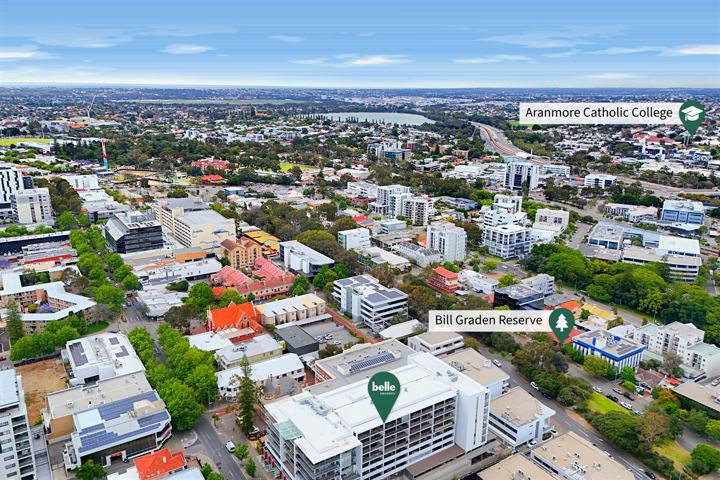
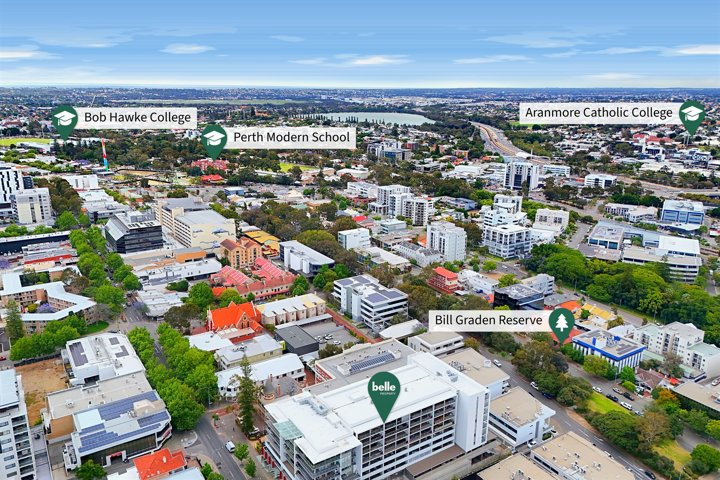
79/1178 Hay St 0132: add Bob Hawke College + Perth Modern School pins
Claude-Session: https://claude.ai/code/session_01A5qGg2LnJXxgSHoMQFvEEG

diff --git a/aerials/17-nov-2026/index.html b/aerials/17-nov-2026/index.html
@@ -5,4 +5,4 @@ body{margin:0;background:var(--bg);color:var(--fg);font:15px/1.45 system-ui,-app
 header,section{max-width:1400px;margin:auto;padding:18px 16px}h1{font-size:20px;margin:0}h2{font-size:17px;margin:0}header p,section p{color:var(--mut);margin:4px 0 0}
 .ed{margin-left:10px;color:var(--acc);font-weight:600;text-decoration:none}a{color:var(--acc)}
 .chk{margin-top:10px}.chk summary{cursor:pointer;color:var(--mut);font-weight:600}.chk iframe{width:100%;height:420px;border:0;border-radius:6px;margin-top:6px;background:#111}.g{display:grid;grid-template-columns:repeat(auto-fill,minmax(280px,1fr));gap:8px;margin-top:10px}.g img{width:100%;display:block;border-radius:4px}</style></head>
-<body><header><h1>Drone edits — Tue 17 Nov 2026</h1><p>Tap a photo for full size. <b>Edit</b> opens the job in the <a href="/pins/">editor</a> with all its pins and settings.</p></header><section><h2>SEND TO EDITOR — no lot boundary (Mac offline, no cadastre/satellite); hazy hills/horizon after sky swap on 0218/0220/0227/0229 (tower ghosting removed); both top-downs over-saturated and the house is off-centre — please re-edit sky/colour · 34 Croyden Rd, Roleystone WA 6111</h2><p>Jayden Cooke · Rodway · 13 photos (top-downs first) <a class="ed" href="/pins/?open=17-nov-2026/34_croyden_rd">Edit</a><a class="ed" href="/lots/?img=/aerials/17-nov-2026/34_croyden_rd/src/DJI_20261117135524_0236_D.jpg&street=Croyden%20Road" target="_blank">Lots</a><a class="ed" href="34_croyden_rd/check.html" target="_blank">Check map</a></p><div class="g"><a href="34_croyden_rd/DJI_20261117135524_0236_D.jpg?v=1794930465" target="_blank"><img loading="lazy" src="34_croyden_rd/t/DJI_20261117135524_0236_D.jpg?v=1794930465" alt=""></a><a href="34_croyden_rd/DJI_20261117135538_0237_D_r180_sq.jpg?v=1794930465" target="_blank"><img loading="lazy" src="34_croyden_rd/t/DJI_20261117135538_0237_D_r180_sq.jpg?v=1794930465" alt=""></a><a href="34_croyden_rd/DJI_20261117134904_0218_D.jpg?v=1794930465" target="_blank"><img loading="lazy" src="34_croyden_rd/t/DJI_20261117134904_0218_D.jpg?v=1794930465" alt=""></a><a href="34_croyden_rd/DJI_20261117135013_0220_D.jpg?v=1794930465" target="_blank"><img loading="lazy" src="34_croyden_rd/t/DJI_20261117135013_0220_D.jpg?v=1794930465" alt=""></a><a href="34_croyden_rd/DJI_20261117135036_0221_D.jpg?v=1794930465" target="_blank"><img loading="lazy" src="34_croyden_rd/t/DJI_20261117135036_0221_D.jpg?v=1794930465" alt=""></a><a href="34_croyden_rd/DJI_20261117135113_0223_D.jpg?v=1794930465" target="_blank"><img loading="lazy" src="34_croyden_rd/t/DJI_20261117135113_0223_D.jpg?v=1794930465" alt=""></a><a href="34_croyden_rd/DJI_20261117135138_0224_D.jpg?v=1794930465" target="_blank"><img loading="lazy" src="34_croyden_rd/t/DJI_20261117135138_0224_D.jpg?v=1794930465" alt=""></a><a href="34_croyden_rd/DJI_20261117135159_0225_D.jpg?v=1794930465" target="_blank"><img loading="lazy" src="34_croyden_rd/t/DJI_20261117135159_0225_D.jpg?v=1794930465" alt=""></a><a href="34_croyden_rd/DJI_20261117135227_0227_D.jpg?v=1794930465" target="_blank"><img loading="lazy" src="34_croyden_rd/t/DJI_20261117135227_0227_D.jpg?v=1794930465" alt=""></a><a href="34_croyden_rd/DJI_20261117135326_0229_D.jpg?v=1794930465" target="_blank"><img loading="lazy" src="34_croyden_rd/t/DJI_20261117135326_0229_D.jpg?v=1794930465" alt=""></a><a href="34_croyden_rd/DJI_20261117143956_0239_D.jpg?v=1794930465" target="_blank"><img loading="lazy" src="34_croyden_rd/t/DJI_20261117143956_0239_D.jpg?v=1794930465" alt=""></a><a href="34_croyden_rd/DJI_20261117144039_0240_D.jpg?v=1794930465" target="_blank"><img loading="lazy" src="34_croyden_rd/t/DJI_20261117144039_0240_D.jpg?v=1794930465" alt=""></a><a href="34_croyden_rd/DJI_20261117144046_0241_D.jpg?v=1794930465" target="_blank"><img loading="lazy" src="34_croyden_rd/t/DJI_20261117144046_0241_D.jpg?v=1794930465" alt=""></a></div><details class="chk" open><summary>Quick check — boundary + 9 pinned places</summary><iframe loading="lazy" src="34_croyden_rd/check.html?v=1794930467" title="Boundary and places check"></iframe></details></section><section><h2>SEND TO EDITOR — pale hard-edged band of old sky above the horizon on 0258/0259/0260 after the sky swap; no lot boundary (grouped dwelling, Mac offline) — please re-do the sky on those frames · 374 Light St, Dianella WA 6059</h2><p>Lucy Deng · Ausvision Realty · 11 photos (top-downs first) <a class="ed" href="/pins/?open=17-nov-2026/374_light_st">Edit</a><a class="ed" href="/lots/?img=/aerials/17-nov-2026/374_light_st/src/DJI_20261117160634_0269_D_r180.jpg&street=Light%20Street" target="_blank">Lots</a><a class="ed" href="374_light_st/check.html" target="_blank">Check map</a></p><div class="g"><a href="374_light_st/DJI_20261117160634_0269_D_r180.jpg?v=1794930470" target="_blank"><img loading="lazy" src="374_light_st/t/DJI_20261117160634_0269_D_r180.jpg?v=1794930470" alt=""></a><a href="374_light_st/DJI_20261117160607_0267_D_sq.jpg?v=1794930470" target="_blank"><img loading="lazy" src="374_light_st/t/DJI_20261117160607_0267_D_sq.jpg?v=1794930470" alt=""></a><a href="374_light_st/DJI_20261117160019_0257_D.jpg?v=1794930470" target="_blank"><img loading="lazy" src="374_light_st/t/DJI_20261117160019_0257_D.jpg?v=1794930470" alt=""></a><a href="374_light_st/DJI_20261117160038_0258_D.jpg?v=1794930470" target="_blank"><img loading="lazy" src="374_light_st/t/DJI_20261117160038_0258_D.jpg?v=1794930470" alt=""></a><a href="374_light_st/DJI_20261117160056_0259_D.jpg?v=1794930470" target="_blank"><img loading="lazy" src="374_light_st/t/DJI_20261117160056_0259_D.jpg?v=1794930470" alt=""></a><a href="374_light_st/DJI_20261117160119_0260_D.jpg?v=1794930470" target="_blank"><img loading="lazy" src="374_light_st/t/DJI_20261117160119_0260_D.jpg?v=1794930470" alt=""></a><a href="374_light_st/DJI_20261117160147_0261_D.jpg?v=1794930470" target="_blank"><img loading="lazy" src="374_light_st/t/DJI_20261117160147_0261_D.jpg?v=1794930470" alt=""></a><a href="374_light_st/DJI_20261117160253_0263_D.jpg?v=1794930470" target="_blank"><img loading="lazy" src="374_light_st/t/DJI_20261117160253_0263_D.jpg?v=1794930470" alt=""></a><a href="374_light_st/DJI_20261117160402_0264_D.jpg?v=1794930470" target="_blank"><img loading="lazy" src="374_light_st/t/DJI_20261117160402_0264_D.jpg?v=1794930470" alt=""></a><a href="374_light_st/DJI_20261117160425_0265_D.jpg?v=1794930470" target="_blank"><img loading="lazy" src="374_light_st/t/DJI_20261117160425_0265_D.jpg?v=1794930470" alt=""></a><a href="374_light_st/DJI_20261117160443_0266_D.jpg?v=1794930470" target="_blank"><img loading="lazy" src="374_light_st/t/DJI_20261117160443_0266_D.jpg?v=1794930470" alt=""></a></div><details class="chk" open><summary>Quick check — boundary + 17 pinned places</summary><iframe loading="lazy" src="374_light_st/check.html?v=1794930472" title="Boundary and places check"></iframe></details></section><section><h2>SEND TO EDITOR — white halo/glow strip along the ridge line on 0114/0115 (faint haze 0108/0111/0112) after the sky swap; house is out of shot on 0110 and 0114 (shooter framing) — please re-do the sky and check those frames · 43 William St, Armadale WA 6112</h2><p>Jayden Cooke · Rodway · 10 photos (top-downs first) <a class="ed" href="/pins/?open=17-nov-2026/43_william_st">Edit</a><a class="ed" href="/lots/?img=/aerials/17-nov-2026/43_william_st/src/dji_fly_20261117_102652_0102_1794923605590_photo_sq.JPG&street=William%20Street" target="_blank">Lots</a><a class="ed" href="43_william_st/check.html" target="_blank">Check map</a></p><div class="g"><a href="43_william_st/dji_fly_20261117_102652_0102_1794923605590_photo_sq.jpg?v=1795010000" target="_blank"><img loading="lazy" src="43_william_st/t/dji_fly_20261117_102652_0102_1794923605590_photo_sq.jpg?v=1795010000" alt=""></a><a href="43_william_st/dji_fly_20261117_102734_0107_1794923598787_photo_sq.jpg?v=1795100000" target="_blank"><img loading="lazy" src="43_william_st/t/dji_fly_20261117_102734_0107_1794923598787_photo_sq.jpg?v=1795100000" alt=""></a><a href="43_william_st/dji_fly_20261117_102804_0108_1794923597373_photo.jpg?v=1795010000" target="_blank"><img loading="lazy" src="43_william_st/t/dji_fly_20261117_102804_0108_1794923597373_photo.jpg?v=1795010000" alt=""></a><a href="43_william_st/dji_fly_20261117_102836_0109_1794923595154_photo.jpg?v=1795010000" target="_blank"><img loading="lazy" src="43_william_st/t/dji_fly_20261117_102836_0109_1794923595154_photo.jpg?v=1795010000" alt=""></a><a href="43_william_st/dji_fly_20261117_102942_0110_1794923593774_photo.jpg?v=1795010000" target="_blank"><img loading="lazy" src="43_william_st/t/dji_fly_20261117_102942_0110_1794923593774_photo.jpg?v=1795010000" alt=""></a><a href="43_william_st/dji_fly_20261117_103016_0111_1794923592394_photo.jpg?v=1795010000" target="_blank"><img loading="lazy" src="43_william_st/t/dji_fly_20261117_103016_0111_1794923592394_photo.jpg?v=1795010000" alt=""></a><a href="43_william_st/dji_fly_20261117_103050_0112_1794923591070_photo.jpg?v=1795010000" target="_blank"><img loading="lazy" src="43_william_st/t/dji_fly_20261117_103050_0112_1794923591070_photo.jpg?v=1795010000" alt=""></a><a href="43_william_st/dji_fly_20261117_103102_0113_1794923589788_photo.jpg?v=1795010000" target="_blank"><img loading="lazy" src="43_william_st/t/dji_fly_20261117_103102_0113_1794923589788_photo.jpg?v=1795010000" alt=""></a><a href="43_william_st/dji_fly_20261117_103116_0114_1794923588534_photo.jpg?v=1795010000" target="_blank"><img loading="lazy" src="43_william_st/t/dji_fly_20261117_103116_0114_1794923588534_photo.jpg?v=1795010000" alt=""></a><a href="43_william_st/dji_fly_20261117_103130_0115_1794923587236_photo.jpg?v=1795010000" target="_blank"><img loading="lazy" src="43_william_st/t/dji_fly_20261117_103130_0115_1794923587236_photo.jpg?v=1795010000" alt=""></a></div><details class="chk" open><summary>Quick check — boundary + 12 pinned places</summary><iframe loading="lazy" src="43_william_st/check.html?v=1794950668" title="Boundary and places check"></iframe></details></section><section><h2>SEND TO EDITOR — sky swap left ghost blocks of old sky above the horizon on 0125/0126/0127 and halos/ghosting around the CBD towers on 0118/0119/0128, grey haze over the hills on 0123/0124 — please replace the sky on every oblique · 28/76 Newcastle St, West Perth WA 6005</h2><p>Shane Garrett · Belle Property · 13 photos (top-downs first) <a class="ed" href="/pins/?open=17-nov-2026/28_76_newcastle_st">Edit</a><a class="ed" href="/lots/?img=/aerials/17-nov-2026/28_76_newcastle_st/src/dji_fly_20261117_123400_0117_1794923584798_photo_r180_sq.JPG&street=Newcastle%20Street" target="_blank">Lots</a><a class="ed" href="28_76_newcastle_st/check.html" target="_blank">Check map</a></p><div class="g"><a href="28_76_newcastle_st/dji_fly_20261117_123400_0117_1794923584798_photo_r180_sq.jpg?v=1794950677" target="_blank"><img loading="lazy" src="28_76_newcastle_st/t/dji_fly_20261117_123400_0117_1794923584798_photo_r180_sq.jpg?v=1794950677" alt=""></a><a href="28_76_newcastle_st/dji_fly_20261117_123356_0116_1794923585995_photo.jpg?v=1794950678" target="_blank"><img loading="lazy" src="28_76_newcastle_st/t/dji_fly_20261117_123356_0116_1794923585995_photo.jpg?v=1794950678" alt=""></a><a href="28_76_newcastle_st/dji_fly_20261117_123438_0118_1794923583683_photo.jpg?v=1794950678" target="_blank"><img loading="lazy" src="28_76_newcastle_st/t/dji_fly_20261117_123438_0118_1794923583683_photo.jpg?v=1794950678" alt=""></a><a href="28_76_newcastle_st/dji_fly_20261117_123500_0119_1794923582541_photo.jpg?v=1794950678" target="_blank"><img loading="lazy" src="28_76_newcastle_st/t/dji_fly_20261117_123500_0119_1794923582541_photo.jpg?v=1794950678" alt=""></a><a href="28_76_newcastle_st/dji_fly_20261117_123532_0120_1794923581349_photo.jpg?v=1794950678" target="_blank"><img loading="lazy" src="28_76_newcastle_st/t/dji_fly_20261117_123532_0120_1794923581349_photo.jpg?v=1794950678" alt=""></a><a href="28_76_newcastle_st/dji_fly_20261117_123548_0121_1794923580121_photo.jpg?v=1794950678" target="_blank"><img loading="lazy" src="28_76_newcastle_st/t/dji_fly_20261117_123548_0121_1794923580121_photo.jpg?v=1794950678" alt=""></a><a href="28_76_newcastle_st/dji_fly_20261117_123610_0122_1794923578874_photo.jpg?v=1794950678" target="_blank"><img loading="lazy" src="28_76_newcastle_st/t/dji_fly_20261117_123610_0122_1794923578874_photo.jpg?v=1794950678" alt=""></a><a href="28_76_newcastle_st/dji_fly_20261117_123630_0123_1794923577572_photo.jpg?v=1794950678" target="_blank"><img loading="lazy" src="28_76_newcastle_st/t/dji_fly_20261117_123630_0123_1794923577572_photo.jpg?v=1794950678" alt=""></a><a href="28_76_newcastle_st/dji_fly_20261117_123646_0124_1794923576272_photo.jpg?v=1794950678" target="_blank"><img loading="lazy" src="28_76_newcastle_st/t/dji_fly_20261117_123646_0124_1794923576272_photo.jpg?v=1794950678" alt=""></a><a href="28_76_newcastle_st/dji_fly_20261117_123702_0125_1794923575020_photo.jpg?v=1794950678" target="_blank"><img loading="lazy" src="28_76_newcastle_st/t/dji_fly_20261117_123702_0125_1794923575020_photo.jpg?v=1794950678" alt=""></a><a href="28_76_newcastle_st/dji_fly_20261117_123724_0126_1794923573753_photo.jpg?v=1794950678" target="_blank"><img loading="lazy" src="28_76_newcastle_st/t/dji_fly_20261117_123724_0126_1794923573753_photo.jpg?v=1794950678" alt=""></a><a href="28_76_newcastle_st/dji_fly_20261117_123754_0127_1794923572402_photo.jpg?v=1794950678" target="_blank"><img loading="lazy" src="28_76_newcastle_st/t/dji_fly_20261117_123754_0127_1794923572402_photo.jpg?v=1794950678" alt=""></a><a href="28_76_newcastle_st/dji_fly_20261117_123806_0128_1794923571185_photo.jpg?v=1794950678" target="_blank"><img loading="lazy" src="28_76_newcastle_st/t/dji_fly_20261117_123806_0128_1794923571185_photo.jpg?v=1794950678" alt=""></a></div><details class="chk" open><summary>Quick check — boundary + 8 pinned places</summary><iframe loading="lazy" src="28_76_newcastle_st/check.html?v=1794950681" title="Boundary and places check"></iframe></details></section><section><h2>SEND TO EDITOR — CBD tower tops ghosted after the sky swap on 0135/0136, faint halo 0131 and haze 0133/0134 — please re-do the sky on the obliques · 79/1178 Hay St, West Perth WA 6005</h2><p>Megan Topham · Belle Property · 12 photos (top-downs first) <a class="ed" href="/pins/?open=17-nov-2026/79_1178_hay_st">Edit</a><a class="ed" href="/lots/?img=/aerials/17-nov-2026/79_1178_hay_st/src/dji_fly_20261117_160212_0129_1794923569992_photo_r270.JPG&street=Hay%20Street" target="_blank">Lots</a><a class="ed" href="79_1178_hay_st/check.html" target="_blank">Check map</a></p><div class="g"><a href="79_1178_hay_st/dji_fly_20261117_160212_0129_1794923569992_photo_r270.jpg?v=1794950688" target="_blank"><img loading="lazy" src="79_1178_hay_st/t/dji_fly_20261117_160212_0129_1794923569992_photo_r270.jpg?v=1794950688" alt=""></a><a href="79_1178_hay_st/dji_fly_20261117_160212_0129_1794923569992_photo.jpg?v=1794950688" target="_blank"><img loading="lazy" src="79_1178_hay_st/t/dji_fly_20261117_160212_0129_1794923569992_photo.jpg?v=1794950688" alt=""></a><a href="79_1178_hay_st/dji_fly_20261117_160252_0130_1794923568799_photo.jpg?v=1794950688" target="_blank"><img loading="lazy" src="79_1178_hay_st/t/dji_fly_20261117_160252_0130_1794923568799_photo.jpg?v=1794950688" alt=""></a><a href="79_1178_hay_st/dji_fly_20261117_160320_0131_1794923567548_photo.jpg?v=1794950688" target="_blank"><img loading="lazy" src="79_1178_hay_st/t/dji_fly_20261117_160320_0131_1794923567548_photo.jpg?v=1794950688" alt=""></a><a href="79_1178_hay_st/dji_fly_20261117_160336_0132_1794923565379_photo.jpg?v=1794950688" target="_blank"><img loading="lazy" src="79_1178_hay_st/t/dji_fly_20261117_160336_0132_1794923565379_photo.jpg?v=1794950688" alt=""></a><a href="79_1178_hay_st/dji_fly_20261117_160354_0133_1794923564099_photo.jpg?v=1794950688" target="_blank"><img loading="lazy" src="79_1178_hay_st/t/dji_fly_20261117_160354_0133_1794923564099_photo.jpg?v=1794950688" alt=""></a><a href="79_1178_hay_st/dji_fly_20261117_160406_0134_1794923562823_photo.jpg?v=1794950688" target="_blank"><img loading="lazy" src="79_1178_hay_st/t/dji_fly_20261117_160406_0134_1794923562823_photo.jpg?v=1794950688" alt=""></a><a href="79_1178_hay_st/dji_fly_20261117_160428_0135_1794923561548_photo.jpg?v=1794950688" target="_blank"><img loading="lazy" src="79_1178_hay_st/t/dji_fly_20261117_160428_0135_1794923561548_photo.jpg?v=1794950688" alt=""></a><a href="79_1178_hay_st/dji_fly_20261117_160446_0136_1794923560286_photo.jpg?v=1794950688" target="_blank"><img loading="lazy" src="79_1178_hay_st/t/dji_fly_20261117_160446_0136_1794923560286_photo.jpg?v=1794950688" alt=""></a><a href="79_1178_hay_st/dji_fly_20261117_160512_0137_1794923559042_photo.jpg?v=1794950688" target="_blank"><img loading="lazy" src="79_1178_hay_st/t/dji_fly_20261117_160512_0137_1794923559042_photo.jpg?v=1794950688" alt=""></a><a href="79_1178_hay_st/dji_fly_20261117_160530_0138_1794923557769_photo.jpg?v=1794950688" target="_blank"><img loading="lazy" src="79_1178_hay_st/t/dji_fly_20261117_160530_0138_1794923557769_photo.jpg?v=1794950688" alt=""></a><a href="79_1178_hay_st/dji_fly_20261117_160548_0139_1794923556478_photo.jpg?v=1794950688" target="_blank"><img loading="lazy" src="79_1178_hay_st/t/dji_fly_20261117_160548_0139_1794923556478_photo.jpg?v=1794950688" alt=""></a></div><details class="chk" open><summary>Quick check — boundary + 10 pinned places</summary><iframe loading="lazy" src="79_1178_hay_st/check.html?v=1794950691" title="Boundary and places check"></iframe></details></section><script src="../dl.js"></script></body></html>
+<body><header><h1>Drone edits — Tue 17 Nov 2026</h1><p>Tap a photo for full size. <b>Edit</b> opens the job in the <a href="/pins/">editor</a> with all its pins and settings.</p></header><section><h2>SEND TO EDITOR — no lot boundary (Mac offline, no cadastre/satellite); hazy hills/horizon after sky swap on 0218/0220/0227/0229 (tower ghosting removed); both top-downs over-saturated and the house is off-centre — please re-edit sky/colour · 34 Croyden Rd, Roleystone WA 6111</h2><p>Jayden Cooke · Rodway · 13 photos (top-downs first) <a class="ed" href="/pins/?open=17-nov-2026/34_croyden_rd">Edit</a><a class="ed" href="/lots/?img=/aerials/17-nov-2026/34_croyden_rd/src/DJI_20261117135524_0236_D.jpg&street=Croyden%20Road" target="_blank">Lots</a><a class="ed" href="34_croyden_rd/check.html" target="_blank">Check map</a></p><div class="g"><a href="34_croyden_rd/DJI_20261117135524_0236_D.jpg?v=1794930465" target="_blank"><img loading="lazy" src="34_croyden_rd/t/DJI_20261117135524_0236_D.jpg?v=1794930465" alt=""></a><a href="34_croyden_rd/DJI_20261117135538_0237_D_r180_sq.jpg?v=1794930465" target="_blank"><img loading="lazy" src="34_croyden_rd/t/DJI_20261117135538_0237_D_r180_sq.jpg?v=1794930465" alt=""></a><a href="34_croyden_rd/DJI_20261117134904_0218_D.jpg?v=1794930465" target="_blank"><img loading="lazy" src="34_croyden_rd/t/DJI_20261117134904_0218_D.jpg?v=1794930465" alt=""></a><a href="34_croyden_rd/DJI_20261117135013_0220_D.jpg?v=1794930465" target="_blank"><img loading="lazy" src="34_croyden_rd/t/DJI_20261117135013_0220_D.jpg?v=1794930465" alt=""></a><a href="34_croyden_rd/DJI_20261117135036_0221_D.jpg?v=1794930465" target="_blank"><img loading="lazy" src="34_croyden_rd/t/DJI_20261117135036_0221_D.jpg?v=1794930465" alt=""></a><a href="34_croyden_rd/DJI_20261117135113_0223_D.jpg?v=1794930465" target="_blank"><img loading="lazy" src="34_croyden_rd/t/DJI_20261117135113_0223_D.jpg?v=1794930465" alt=""></a><a href="34_croyden_rd/DJI_20261117135138_0224_D.jpg?v=1794930465" target="_blank"><img loading="lazy" src="34_croyden_rd/t/DJI_20261117135138_0224_D.jpg?v=1794930465" alt=""></a><a href="34_croyden_rd/DJI_20261117135159_0225_D.jpg?v=1794930465" target="_blank"><img loading="lazy" src="34_croyden_rd/t/DJI_20261117135159_0225_D.jpg?v=1794930465" alt=""></a><a href="34_croyden_rd/DJI_20261117135227_0227_D.jpg?v=1794930465" target="_blank"><img loading="lazy" src="34_croyden_rd/t/DJI_20261117135227_0227_D.jpg?v=1794930465" alt=""></a><a href="34_croyden_rd/DJI_20261117135326_0229_D.jpg?v=1794930465" target="_blank"><img loading="lazy" src="34_croyden_rd/t/DJI_20261117135326_0229_D.jpg?v=1794930465" alt=""></a><a href="34_croyden_rd/DJI_20261117143956_0239_D.jpg?v=1794930465" target="_blank"><img loading="lazy" src="34_croyden_rd/t/DJI_20261117143956_0239_D.jpg?v=1794930465" alt=""></a><a href="34_croyden_rd/DJI_20261117144039_0240_D.jpg?v=1794930465" target="_blank"><img loading="lazy" src="34_croyden_rd/t/DJI_20261117144039_0240_D.jpg?v=1794930465" alt=""></a><a href="34_croyden_rd/DJI_20261117144046_0241_D.jpg?v=1794930465" target="_blank"><img loading="lazy" src="34_croyden_rd/t/DJI_20261117144046_0241_D.jpg?v=1794930465" alt=""></a></div><details class="chk" open><summary>Quick check — boundary + 9 pinned places</summary><iframe loading="lazy" src="34_croyden_rd/check.html?v=1794930467" title="Boundary and places check"></iframe></details></section><section><h2>SEND TO EDITOR — pale hard-edged band of old sky above the horizon on 0258/0259/0260 after the sky swap; no lot boundary (grouped dwelling, Mac offline) — please re-do the sky on those frames · 374 Light St, Dianella WA 6059</h2><p>Lucy Deng · Ausvision Realty · 11 photos (top-downs first) <a class="ed" href="/pins/?open=17-nov-2026/374_light_st">Edit</a><a class="ed" href="/lots/?img=/aerials/17-nov-2026/374_light_st/src/DJI_20261117160634_0269_D_r180.jpg&street=Light%20Street" target="_blank">Lots</a><a class="ed" href="374_light_st/check.html" target="_blank">Check map</a></p><div class="g"><a href="374_light_st/DJI_20261117160634_0269_D_r180.jpg?v=1794930470" target="_blank"><img loading="lazy" src="374_light_st/t/DJI_20261117160634_0269_D_r180.jpg?v=1794930470" alt=""></a><a href="374_light_st/DJI_20261117160607_0267_D_sq.jpg?v=1794930470" target="_blank"><img loading="lazy" src="374_light_st/t/DJI_20261117160607_0267_D_sq.jpg?v=1794930470" alt=""></a><a href="374_light_st/DJI_20261117160019_0257_D.jpg?v=1794930470" target="_blank"><img loading="lazy" src="374_light_st/t/DJI_20261117160019_0257_D.jpg?v=1794930470" alt=""></a><a href="374_light_st/DJI_20261117160038_0258_D.jpg?v=1794930470" target="_blank"><img loading="lazy" src="374_light_st/t/DJI_20261117160038_0258_D.jpg?v=1794930470" alt=""></a><a href="374_light_st/DJI_20261117160056_0259_D.jpg?v=1794930470" target="_blank"><img loading="lazy" src="374_light_st/t/DJI_20261117160056_0259_D.jpg?v=1794930470" alt=""></a><a href="374_light_st/DJI_20261117160119_0260_D.jpg?v=1794930470" target="_blank"><img loading="lazy" src="374_light_st/t/DJI_20261117160119_0260_D.jpg?v=1794930470" alt=""></a><a href="374_light_st/DJI_20261117160147_0261_D.jpg?v=1794930470" target="_blank"><img loading="lazy" src="374_light_st/t/DJI_20261117160147_0261_D.jpg?v=1794930470" alt=""></a><a href="374_light_st/DJI_20261117160253_0263_D.jpg?v=1794930470" target="_blank"><img loading="lazy" src="374_light_st/t/DJI_20261117160253_0263_D.jpg?v=1794930470" alt=""></a><a href="374_light_st/DJI_20261117160402_0264_D.jpg?v=1794930470" target="_blank"><img loading="lazy" src="374_light_st/t/DJI_20261117160402_0264_D.jpg?v=1794930470" alt=""></a><a href="374_light_st/DJI_20261117160425_0265_D.jpg?v=1794930470" target="_blank"><img loading="lazy" src="374_light_st/t/DJI_20261117160425_0265_D.jpg?v=1794930470" alt=""></a><a href="374_light_st/DJI_20261117160443_0266_D.jpg?v=1794930470" target="_blank"><img loading="lazy" src="374_light_st/t/DJI_20261117160443_0266_D.jpg?v=1794930470" alt=""></a></div><details class="chk" open><summary>Quick check — boundary + 17 pinned places</summary><iframe loading="lazy" src="374_light_st/check.html?v=1794930472" title="Boundary and places check"></iframe></details></section><section><h2>SEND TO EDITOR — white halo/glow strip along the ridge line on 0114/0115 (faint haze 0108/0111/0112) after the sky swap; house is out of shot on 0110 and 0114 (shooter framing) — please re-do the sky and check those frames · 43 William St, Armadale WA 6112</h2><p>Jayden Cooke · Rodway · 10 photos (top-downs first) <a class="ed" href="/pins/?open=17-nov-2026/43_william_st">Edit</a><a class="ed" href="/lots/?img=/aerials/17-nov-2026/43_william_st/src/dji_fly_20261117_102652_0102_1794923605590_photo_sq.JPG&street=William%20Street" target="_blank">Lots</a><a class="ed" href="43_william_st/check.html" target="_blank">Check map</a></p><div class="g"><a href="43_william_st/dji_fly_20261117_102652_0102_1794923605590_photo_sq.jpg?v=1795010000" target="_blank"><img loading="lazy" src="43_william_st/t/dji_fly_20261117_102652_0102_1794923605590_photo_sq.jpg?v=1795010000" alt=""></a><a href="43_william_st/dji_fly_20261117_102734_0107_1794923598787_photo_sq.jpg?v=1795100000" target="_blank"><img loading="lazy" src="43_william_st/t/dji_fly_20261117_102734_0107_1794923598787_photo_sq.jpg?v=1795100000" alt=""></a><a href="43_william_st/dji_fly_20261117_102804_0108_1794923597373_photo.jpg?v=1795010000" target="_blank"><img loading="lazy" src="43_william_st/t/dji_fly_20261117_102804_0108_1794923597373_photo.jpg?v=1795010000" alt=""></a><a href="43_william_st/dji_fly_20261117_102836_0109_1794923595154_photo.jpg?v=1795010000" target="_blank"><img loading="lazy" src="43_william_st/t/dji_fly_20261117_102836_0109_1794923595154_photo.jpg?v=1795010000" alt=""></a><a href="43_william_st/dji_fly_20261117_102942_0110_1794923593774_photo.jpg?v=1795010000" target="_blank"><img loading="lazy" src="43_william_st/t/dji_fly_20261117_102942_0110_1794923593774_photo.jpg?v=1795010000" alt=""></a><a href="43_william_st/dji_fly_20261117_103016_0111_1794923592394_photo.jpg?v=1795010000" target="_blank"><img loading="lazy" src="43_william_st/t/dji_fly_20261117_103016_0111_1794923592394_photo.jpg?v=1795010000" alt=""></a><a href="43_william_st/dji_fly_20261117_103050_0112_1794923591070_photo.jpg?v=1795010000" target="_blank"><img loading="lazy" src="43_william_st/t/dji_fly_20261117_103050_0112_1794923591070_photo.jpg?v=1795010000" alt=""></a><a href="43_william_st/dji_fly_20261117_103102_0113_1794923589788_photo.jpg?v=1795010000" target="_blank"><img loading="lazy" src="43_william_st/t/dji_fly_20261117_103102_0113_1794923589788_photo.jpg?v=1795010000" alt=""></a><a href="43_william_st/dji_fly_20261117_103116_0114_1794923588534_photo.jpg?v=1795010000" target="_blank"><img loading="lazy" src="43_william_st/t/dji_fly_20261117_103116_0114_1794923588534_photo.jpg?v=1795010000" alt=""></a><a href="43_william_st/dji_fly_20261117_103130_0115_1794923587236_photo.jpg?v=1795010000" target="_blank"><img loading="lazy" src="43_william_st/t/dji_fly_20261117_103130_0115_1794923587236_photo.jpg?v=1795010000" alt=""></a></div><details class="chk" open><summary>Quick check — boundary + 12 pinned places</summary><iframe loading="lazy" src="43_william_st/check.html?v=1794950668" title="Boundary and places check"></iframe></details></section><section><h2>SEND TO EDITOR — sky swap left ghost blocks of old sky above the horizon on 0125/0126/0127 and halos/ghosting around the CBD towers on 0118/0119/0128, grey haze over the hills on 0123/0124 — please replace the sky on every oblique · 28/76 Newcastle St, West Perth WA 6005</h2><p>Shane Garrett · Belle Property · 13 photos (top-downs first) <a class="ed" href="/pins/?open=17-nov-2026/28_76_newcastle_st">Edit</a><a class="ed" href="/lots/?img=/aerials/17-nov-2026/28_76_newcastle_st/src/dji_fly_20261117_123400_0117_1794923584798_photo_r180_sq.JPG&street=Newcastle%20Street" target="_blank">Lots</a><a class="ed" href="28_76_newcastle_st/check.html" target="_blank">Check map</a></p><div class="g"><a href="28_76_newcastle_st/dji_fly_20261117_123400_0117_1794923584798_photo_r180_sq.jpg?v=1794950677" target="_blank"><img loading="lazy" src="28_76_newcastle_st/t/dji_fly_20261117_123400_0117_1794923584798_photo_r180_sq.jpg?v=1794950677" alt=""></a><a href="28_76_newcastle_st/dji_fly_20261117_123356_0116_1794923585995_photo.jpg?v=1794950678" target="_blank"><img loading="lazy" src="28_76_newcastle_st/t/dji_fly_20261117_123356_0116_1794923585995_photo.jpg?v=1794950678" alt=""></a><a href="28_76_newcastle_st/dji_fly_20261117_123438_0118_1794923583683_photo.jpg?v=1794950678" target="_blank"><img loading="lazy" src="28_76_newcastle_st/t/dji_fly_20261117_123438_0118_1794923583683_photo.jpg?v=1794950678" alt=""></a><a href="28_76_newcastle_st/dji_fly_20261117_123500_0119_1794923582541_photo.jpg?v=1794950678" target="_blank"><img loading="lazy" src="28_76_newcastle_st/t/dji_fly_20261117_123500_0119_1794923582541_photo.jpg?v=1794950678" alt=""></a><a href="28_76_newcastle_st/dji_fly_20261117_123532_0120_1794923581349_photo.jpg?v=1794950678" target="_blank"><img loading="lazy" src="28_76_newcastle_st/t/dji_fly_20261117_123532_0120_1794923581349_photo.jpg?v=1794950678" alt=""></a><a href="28_76_newcastle_st/dji_fly_20261117_123548_0121_1794923580121_photo.jpg?v=1794950678" target="_blank"><img loading="lazy" src="28_76_newcastle_st/t/dji_fly_20261117_123548_0121_1794923580121_photo.jpg?v=1794950678" alt=""></a><a href="28_76_newcastle_st/dji_fly_20261117_123610_0122_1794923578874_photo.jpg?v=1794950678" target="_blank"><img loading="lazy" src="28_76_newcastle_st/t/dji_fly_20261117_123610_0122_1794923578874_photo.jpg?v=1794950678" alt=""></a><a href="28_76_newcastle_st/dji_fly_20261117_123630_0123_1794923577572_photo.jpg?v=1794950678" target="_blank"><img loading="lazy" src="28_76_newcastle_st/t/dji_fly_20261117_123630_0123_1794923577572_photo.jpg?v=1794950678" alt=""></a><a href="28_76_newcastle_st/dji_fly_20261117_123646_0124_1794923576272_photo.jpg?v=1794950678" target="_blank"><img loading="lazy" src="28_76_newcastle_st/t/dji_fly_20261117_123646_0124_1794923576272_photo.jpg?v=1794950678" alt=""></a><a href="28_76_newcastle_st/dji_fly_20261117_123702_0125_1794923575020_photo.jpg?v=1794950678" target="_blank"><img loading="lazy" src="28_76_newcastle_st/t/dji_fly_20261117_123702_0125_1794923575020_photo.jpg?v=1794950678" alt=""></a><a href="28_76_newcastle_st/dji_fly_20261117_123724_0126_1794923573753_photo.jpg?v=1794950678" target="_blank"><img loading="lazy" src="28_76_newcastle_st/t/dji_fly_20261117_123724_0126_1794923573753_photo.jpg?v=1794950678" alt=""></a><a href="28_76_newcastle_st/dji_fly_20261117_123754_0127_1794923572402_photo.jpg?v=1794950678" target="_blank"><img loading="lazy" src="28_76_newcastle_st/t/dji_fly_20261117_123754_0127_1794923572402_photo.jpg?v=1794950678" alt=""></a><a href="28_76_newcastle_st/dji_fly_20261117_123806_0128_1794923571185_photo.jpg?v=1794950678" target="_blank"><img loading="lazy" src="28_76_newcastle_st/t/dji_fly_20261117_123806_0128_1794923571185_photo.jpg?v=1794950678" alt=""></a></div><details class="chk" open><summary>Quick check — boundary + 8 pinned places</summary><iframe loading="lazy" src="28_76_newcastle_st/check.html?v=1794950681" title="Boundary and places check"></iframe></details></section><section><h2>SEND TO EDITOR — CBD tower tops ghosted after the sky swap on 0135/0136, faint halo 0131 and haze 0133/0134 — please re-do the sky on the obliques · 79/1178 Hay St, West Perth WA 6005</h2><p>Megan Topham · Belle Property · 12 photos (top-downs first) <a class="ed" href="/pins/?open=17-nov-2026/79_1178_hay_st">Edit</a><a class="ed" href="/lots/?img=/aerials/17-nov-2026/79_1178_hay_st/src/dji_fly_20261117_160212_0129_1794923569992_photo_r270.JPG&street=Hay%20Street" target="_blank">Lots</a><a class="ed" href="79_1178_hay_st/check.html" target="_blank">Check map</a></p><div class="g"><a href="79_1178_hay_st/dji_fly_20261117_160212_0129_1794923569992_photo_r270.jpg?v=1794950688" target="_blank"><img loading="lazy" src="79_1178_hay_st/t/dji_fly_20261117_160212_0129_1794923569992_photo_r270.jpg?v=1794950688" alt=""></a><a href="79_1178_hay_st/dji_fly_20261117_160212_0129_1794923569992_photo.jpg?v=1794950688" target="_blank"><img loading="lazy" src="79_1178_hay_st/t/dji_fly_20261117_160212_0129_1794923569992_photo.jpg?v=1794950688" alt=""></a><a href="79_1178_hay_st/dji_fly_20261117_160252_0130_1794923568799_photo.jpg?v=1794950688" target="_blank"><img loading="lazy" src="79_1178_hay_st/t/dji_fly_20261117_160252_0130_1794923568799_photo.jpg?v=1794950688" alt=""></a><a href="79_1178_hay_st/dji_fly_20261117_160320_0131_1794923567548_photo.jpg?v=1794950688" target="_blank"><img loading="lazy" src="79_1178_hay_st/t/dji_fly_20261117_160320_0131_1794923567548_photo.jpg?v=1794950688" alt=""></a><a href="79_1178_hay_st/dji_fly_20261117_160336_0132_1794923565379_photo.jpg?v=1795110000" target="_blank"><img loading="lazy" src="79_1178_hay_st/t/dji_fly_20261117_160336_0132_1794923565379_photo.jpg?v=1795110000" alt=""></a><a href="79_1178_hay_st/dji_fly_20261117_160354_0133_1794923564099_photo.jpg?v=1794950688" target="_blank"><img loading="lazy" src="79_1178_hay_st/t/dji_fly_20261117_160354_0133_1794923564099_photo.jpg?v=1794950688" alt=""></a><a href="79_1178_hay_st/dji_fly_20261117_160406_0134_1794923562823_photo.jpg?v=1794950688" target="_blank"><img loading="lazy" src="79_1178_hay_st/t/dji_fly_20261117_160406_0134_1794923562823_photo.jpg?v=1794950688" alt=""></a><a href="79_1178_hay_st/dji_fly_20261117_160428_0135_1794923561548_photo.jpg?v=1794950688" target="_blank"><img loading="lazy" src="79_1178_hay_st/t/dji_fly_20261117_160428_0135_1794923561548_photo.jpg?v=1794950688" alt=""></a><a href="79_1178_hay_st/dji_fly_20261117_160446_0136_1794923560286_photo.jpg?v=1794950688" target="_blank"><img loading="lazy" src="79_1178_hay_st/t/dji_fly_20261117_160446_0136_1794923560286_photo.jpg?v=1794950688" alt=""></a><a href="79_1178_hay_st/dji_fly_20261117_160512_0137_1794923559042_photo.jpg?v=1794950688" target="_blank"><img loading="lazy" src="79_1178_hay_st/t/dji_fly_20261117_160512_0137_1794923559042_photo.jpg?v=1794950688" alt=""></a><a href="79_1178_hay_st/dji_fly_20261117_160530_0138_1794923557769_photo.jpg?v=1794950688" target="_blank"><img loading="lazy" src="79_1178_hay_st/t/dji_fly_20261117_160530_0138_1794923557769_photo.jpg?v=1794950688" alt=""></a><a href="79_1178_hay_st/dji_fly_20261117_160548_0139_1794923556478_photo.jpg?v=1794950688" target="_blank"><img loading="lazy" src="79_1178_hay_st/t/dji_fly_20261117_160548_0139_1794923556478_photo.jpg?v=1794950688" alt=""></a></div><details class="chk" open><summary>Quick check — boundary + 10 pinned places</summary><iframe loading="lazy" src="79_1178_hay_st/check.html?v=1794950691" title="Boundary and places check"></iframe></details></section><script src="../dl.js"></script></body></html>
